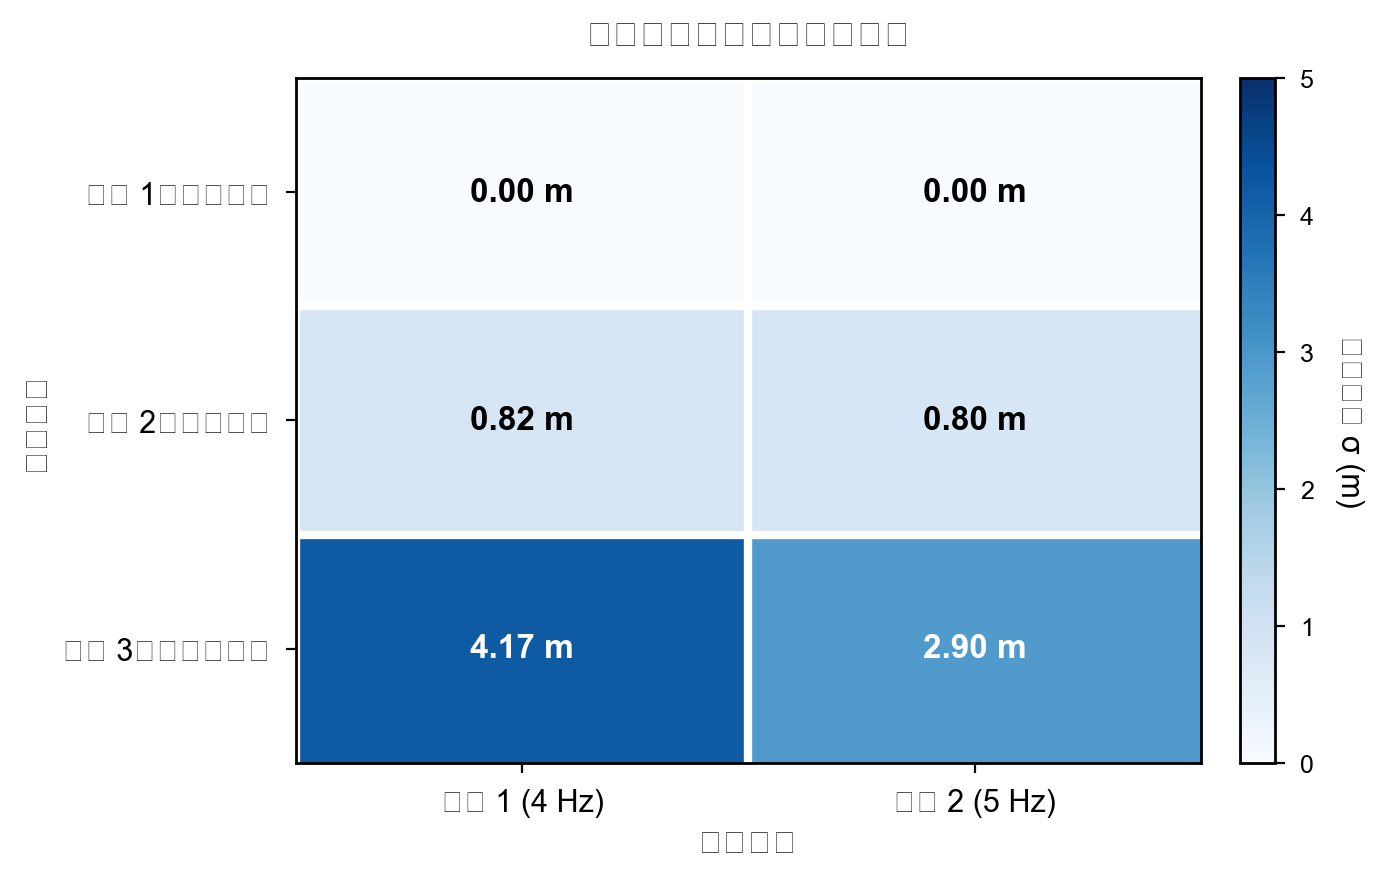
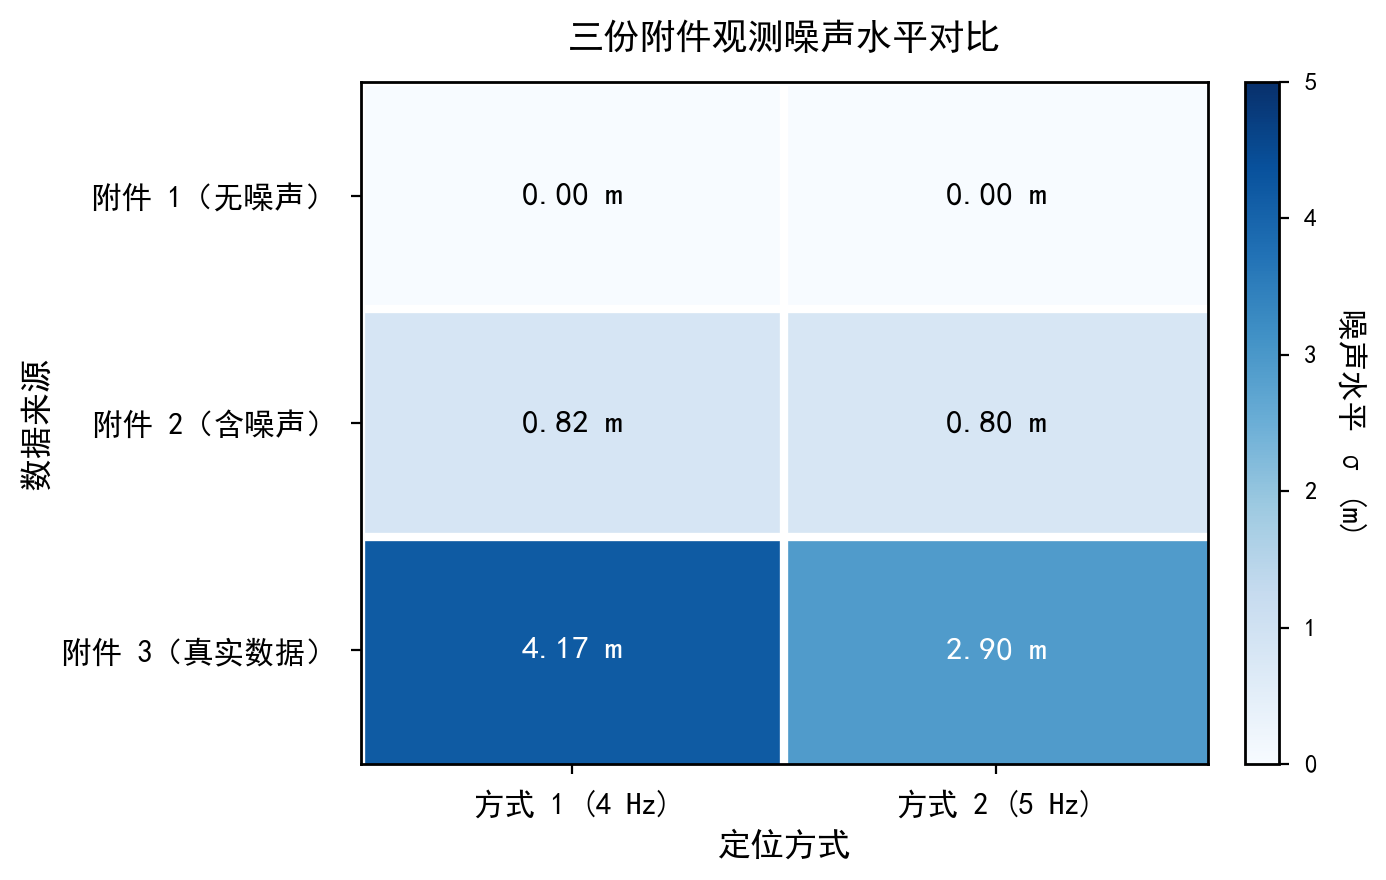
fix(figs): 修复中文乱码 + 流程图/热力图全部中文化 → final-v19 (30页)
- 添加 SimHei 字体配置解决 matplotlib 中文乱码
- fig_method_flowchart: 全部英文→中文(问题一~四, 方法名, 输入输出)
- fig_noise_heatmap: 已中文化(上轮), 本轮确认渲染正确
- fig_results_radar: 已中文化(上轮), 本轮确认渲染正确
- 配色统一为灰黑色系(#2C3E50~#717D7E), 更高级

diff --git a/workspace/xupt-2026-b/code/visualization/fig_global.py b/workspace/xupt-2026-b/code/visualization/fig_global.py
@@ -34,7 +34,8 @@ plt.rcParams.update({
     'legend.fontsize': 9,
     'figure.titlesize': 13,
     'font.family': 'sans-serif',
-    'font.sans-serif': ['Arial', 'DejaVu Sans'],
+    'font.sans-serif': ['SimHei', 'Microsoft YaHei', 'Arial', 'DejaVu Sans'],
+    'axes.unicode_minus': False,
     'axes.linewidth': 1.0,
     'grid.linewidth': 0.5,
     'lines.linewidth': 1.5,
@@ -54,36 +55,36 @@ def generate_flowchart():
     # Step definitions
     steps = [
         {
-            'name': 'P1: Time Shift\nCalibration',
-            'method': 'Cubic Spline +\n1D Search',
+            'name': '问题一\n时间对齐',
+            'method': '三次样条 +\n一维搜索',
             'x': 1.5,
             'y': 3,
-            'color': '#3498db',  # Blue
+            'color': '#2C3E50',
             'output': 'Δτ*'
         },
         {
-            'name': 'P2: Trajectory\nReconstruction',
-            'method': 'Joint LS +\nKalman Filter',
+            'name': '问题二\n联合融合',
+            'method': '联合估计 +\n卡尔曼滤波',
             'x': 4.5,
             'y': 3,
-            'color': '#2ecc71',  # Green
-            'output': 'traj_10hz_3.csv'
+            'color': '#34495E',
+            'output': '10Hz 轨迹'
         },
         {
-            'name': 'P3: Model\nValidation',
-            'method': 'Wald Test +\nAIC',
+            'name': '问题三\n偏差判定',
+            'method': 'Wald 检验 +\nAIC 准则',
             'x': 7.5,
             'y': 3,
-            'color': '#f39c12',  # Orange
-            'output': 'Model params'
+            'color': '#5D6D7E',
+            'output': '判决 H0'
         },
         {
-            'name': 'P4: Patrol\nScheduling',
-            'method': 'SG Smooth +\nGreedy Schedule',
+            'name': '问题四\n任务调度',
+            'method': 'SG 平滑 +\nCP-SAT',
             'x': 10.5,
             'y': 3,
-            'color': '#e74c3c',  # Red
-            'output': 'Schedule.xlsx'
+            'color': '#717D7E',
+            'output': '25 任务'
         }
     ]
 
@@ -141,26 +142,23 @@ def generate_flowchart():
                          edgecolor='gray', alpha=0.9))
 
     # Input/Output annotations
-    # Input
-    ax.annotate('INPUT:\nAttachment 1-3\n(raw obs.)',
+    ax.annotate('输入：\n附件 1-3\n原始观测',
                 xy=(steps[0]['x'] - box_width/2, arrow_y),
                 xytext=(0.3, arrow_y),
                 fontsize=8, ha='center',
-                bbox=dict(boxstyle='round,pad=0.4', facecolor='#ecf0f1',
+                bbox=dict(boxstyle='round,pad=0.4', facecolor='#F2F3F4',
                          edgecolor='black', linewidth=1.5),
                 arrowprops=dict(arrowstyle='->', lw=2, color='black'))
 
-    # Output
-    ax.annotate('OUTPUT:\nOptimal\npatrol plan',
+    ax.annotate('输出：\n最优任务\n调度方案',
                 xy=(steps[-1]['x'] + box_width/2, arrow_y),
                 xytext=(11.7, arrow_y),
                 fontsize=8, ha='center',
-                bbox=dict(boxstyle='round,pad=0.4', facecolor='#ecf0f1',
+                bbox=dict(boxstyle='round,pad=0.4', facecolor='#F2F3F4',
                          edgecolor='black', linewidth=1.5),
                 arrowprops=dict(arrowstyle='->', lw=2, color='black'))
 
-    # Title
-    fig.suptitle('Integrated Method Flowchart', fontsize=14, fontweight='bold', y=0.95)
+    fig.suptitle('方法论流程：四问递进结构', fontsize=14, fontweight='bold', y=0.95)
 
     plt.tight_layout()
     output_path = OUTPUT_DIR / "fig_method_flowchart.png"